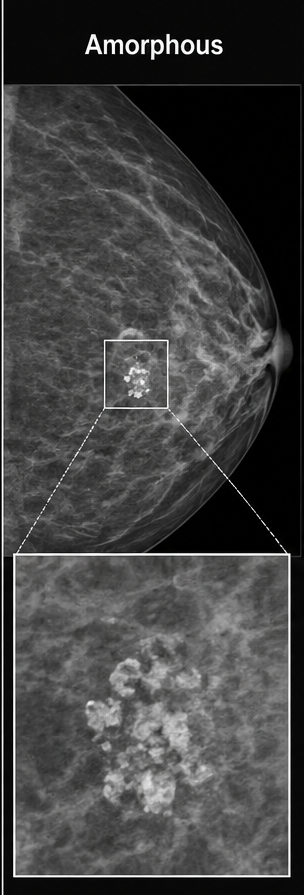
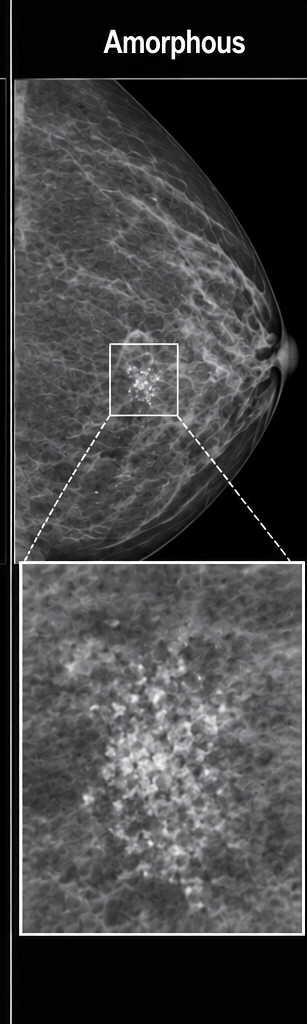
Add calcification distribution images and update case

diff --git a/app/mamma/bildgebung/mammographie/verkalkungen/page.js b/app/mamma/bildgebung/mammographie/verkalkungen/page.js
@@ -15,14 +15,22 @@ const ID='mammographie-mikrokalk',PATH='/mamma/bildgebung/mammographie/verkalkun
 const READ={de:['Als gelesen markieren','Als gelesen markiert','Bitte melde dich an, um deinen Lernfortschritt zu speichern.','Anmelden'],en:['Mark as read','Marked as read','Please sign in to save your learning progress.','Sign in'],fa:['علامتگذاری بهعنوان خواندهشده','بهعنوان خواندهشده علامتگذاری شد','برای ذخیره پیشرفت لطفاً وارد شوید.','ورود']}
 const MORPHOLOGY_IMAGES={
   round:{src:'/mamma/mammographie/verkalkungen/morphology/round.png',width:309,height:895,alt:L('Runde, scharf begrenzte Verkalkungen mit Vergrößerung','Round, well-defined calcifications with magnified view','کلسیفیکاسیونهای گرد و با حدود مشخص همراه با نمای بزرگنماییشده')},
-  amorph:{src:'/mamma/mammographie/verkalkungen/morphology/amorphous.png',width:304,height:895,alt:L('Amorphe, unscharf begrenzte Verkalkungen mit Vergrößerung','Amorphous, indistinct calcifications with magnified view','کلسیفیکاسیونهای آمورف و نامشخص همراه با نمای بزرگنماییشده')},
+  amorph:{src:'/mamma/mammographie/verkalkungen/morphology/amorphous.png',width:307,height:1024,alt:L('Amorphe, unscharf begrenzte Verkalkungen mit Vergrößerung','Amorphous, indistinct calcifications with magnified view','کلسیفیکاسیونهای آمورف و نامشخص همراه با نمای بزرگنماییشده')},
   coarse:{src:'/mamma/mammographie/verkalkungen/morphology/coarse-heterogeneous.png',width:305,height:895,alt:L('Grob heterogene Verkalkungen mit Vergrößerung','Coarse heterogeneous calcifications with magnified view','کلسیفیکاسیونهای درشت ناهمگون همراه با نمای بزرگنماییشده')},
   pleomorphic:{src:'/mamma/mammographie/verkalkungen/morphology/fine-pleomorphic.png',width:304,height:895,alt:L('Fein pleomorphe Verkalkungen mit Vergrößerung','Fine pleomorphic calcifications with magnified view','کلسیفیکاسیونهای ظریف پلئومورفیک همراه با نمای بزرگنماییشده')},
   linear:{src:'/mamma/mammographie/verkalkungen/morphology/fine-linear-branching.png',width:307,height:895,alt:L('Fein lineare und verzweigte Verkalkungen mit Vergrößerung','Fine linear and branching calcifications with magnified view','کلسیفیکاسیونهای ظریف خطی و شاخهدار همراه با نمای بزرگنماییشده')},
 }
+const DISTRIBUTION_IMAGES={
+  diffuse:{src:'/mamma/mammographie/verkalkungen/distribution/diffuse.png',width:307,height:1024,alt:L('Diffuse Verteilung von Verkalkungen mit Vergrößerung','Diffuse distribution of calcifications with magnified view','توزیع منتشر کلسیفیکاسیونها همراه با نمای بزرگنماییشده')},
+  regional:{src:'/mamma/mammographie/verkalkungen/distribution/regional.png',width:307,height:1024,alt:L('Regionale Verteilung von Verkalkungen mit Vergrößerung','Regional distribution of calcifications with magnified view','توزیع ناحیهای کلسیفیکاسیونها همراه با نمای بزرگنماییشده')},
+  grouped:{src:'/mamma/mammographie/verkalkungen/distribution/grouped.png',width:308,height:1024,alt:L('Gruppierte Verteilung von Verkalkungen mit Vergrößerung','Grouped distribution of calcifications with magnified view','توزیع گروهی کلسیفیکاسیونها همراه با نمای بزرگنماییشده')},
+  linear:{src:'/mamma/mammographie/verkalkungen/distribution/linear.png',width:307,height:1024,alt:L('Lineare Verteilung von Verkalkungen mit Vergrößerung','Linear distribution of calcifications with magnified view','توزیع خطی کلسیفیکاسیونها همراه با نمای بزرگنماییشده')},
+  segmental:{src:'/mamma/mammographie/verkalkungen/distribution/segmental.png',width:307,height:1024,alt:L('Segmentale Verteilung von Verkalkungen mit Vergrößerung','Segmental distribution of calcifications with magnified view','توزیع سگمنتال کلسیفیکاسیونها همراه با نمای بزرگنماییشده')},
+}
 function Section({id,number,title,children}){const mobile=useMobileLearningLayout();const[open,setOpen]=useState(true);useEffect(()=>setOpen(!mobile),[mobile,id]);return <section id={id} className={`${base.section} ${basics.section} ${styles.section}`}><button type="button" className={`${base.sectionHeader} ${basics.sectionHeader}`} onClick={()=>setOpen(v=>!v)} aria-expanded={open}><span className={basics.sectionHeading}><small>{number}</small><h2>{title}</h2></span><span className={basics.sectionToggle}>{open?'−':'+'}</span></button>{open&&<div className={`${base.sectionBody} ${basics.sectionBody} ${styles.sectionBody}`}>{children}</div>}</section>}
 function ReadButton({lang,isRead,toggle,authError}){const t=READ[lang]||READ.de;return <div className={base.readControl}><button type="button" className={`${base.readButton} ${basics.readButton} ${isRead?`${base.readButtonActive} ${basics.readButtonActive}`:''}`} onClick={toggle}><span className={`${base.readCheck} ${basics.readCheck}`}>{isRead?'✓':''}</span><span>{isRead?t[1]:t[0]}</span></button>{authError&&<div className={base.readError}><span>{t[2]}</span><Link href="/sign-in">{t[3]}</Link></div>}</div>}
 function MorphologyImage({type,lang='de'}){const image=MORPHOLOGY_IMAGES[type];return <a className={caseStyles.morphologyIllustration} href={image.src} target="_blank" rel="noreferrer" aria-label={pick(image.alt,lang)}><Image src={image.src} alt={pick(image.alt,lang)} width={image.width} height={image.height}/></a>}
+function DistributionImage({type,lang='de'}){const image=DISTRIBUTION_IMAGES[type];return <a className={caseStyles.distributionIllustration} href={image.src} target="_blank" rel="noreferrer" aria-label={pick(image.alt,lang)}><Image src={image.src} alt={pick(image.alt,lang)} width={image.width} height={image.height}/></a>}
 function RiskLab({lang}){const tx=v=>pick(v,lang);const[morph,setMorph]=useState('amorph');const[dist,setDist]=useState('grouped');const mi=MORPH.findIndex(x=>x.key===morph),di=DISTRIBUTION.findIndex(x=>x.key===dist);const score=mi+(di>=3?2:di===2?1:0);const result=score>=5?L('hoch suspekt','highly suspicious','بسیار مشکوک'):score>=3?L('suspekt','suspicious','مشکوک'):L('eher niedrige Suspektheit','lower suspicion','شک کمتر');return <div className={styles.riskLab}><header><small>{tx(L('Interaktiv kombinieren','Combine interactively','ترکیب تعاملی'))}</small><strong>{tx(result)}</strong></header><div><label>{tx(L('Morphologie','Morphology','مورفولوژی'))}<select value={morph} onChange={e=>setMorph(e.target.value)}>{MORPH.map(x=><option key={x.key} value={x.key}>{tx(x.title)}</option>)}</select></label><span>×</span><label>{tx(L('Verteilung','Distribution','توزیع'))}<select value={dist} onChange={e=>setDist(e.target.value)}>{DISTRIBUTION.map(x=><option key={x.key} value={x.key}>{tx(x.title)}</option>)}</select></label></div><p>{tx(L('Die Kombination strukturiert die Risikoeinschätzung; BI-RADS und Management bleiben eine ärztliche Gesamtentscheidung.','The combination structures risk assessment; BI-RADS and management remain an integrated clinical decision.','این ترکیب ارزیابی خطر را ساختار میدهد؛ BI-RADS و اقدام همچنان تصمیم جامع پزشکی هستند.'))}</p></div>}
 function Lines({children}){return <span style={{whiteSpace:'pre-line'}}>{children}</span>}
 function GermanContent(){return <>
@@ -68,12 +76,12 @@ function GermanContent(){return <>
   <Section {...GERMAN_SECTIONS[3]} title={GERMAN_SECTIONS[3].label.de}>
     <p className={styles.lead}>Neben der Morphologie muss immer beschrieben werden, wie sich die Verkalkungen innerhalb der Brust verteilen.</p>
     <div className={styles.riskArrow}>zunehmende duktale Orientierung →</div>
-    <div className={`${styles.distribution} ${caseStyles.distributionScale}`}>
-      <article><span>01</span><strong>Diffus</strong><p>Weit über die Brust verteilt, häufig bilateral.<br/><br/>Bei entsprechender Morphologie meistens benign.</p></article>
-      <article><span>02</span><strong>Regional</strong><p>Verkalkungen innerhalb eines größeren Areals ohne eindeutige Orientierung an einem Gangsystem.<br/><br/>Die Bedeutung hängt stark von der Morphologie ab.</p></article>
-      <article><span>03</span><strong>Gruppiert</strong><p>Mehrere Verkalkungen konzentrieren sich innerhalb eines begrenzten Areals.<br/><br/>Eine gruppierte Verteilung allein bedeutet nicht Malignität:<br/><br/>Morphologie entscheidet über das tatsächliche Risiko.</p></article>
-      <article><span>04</span><strong>Linear</strong><p>Verkalkungen liegen entlang einer Linie.<br/><br/>Dies kann eine Ablagerung innerhalb eines Milchganges widerspiegeln und erhöht insbesondere bei suspekter Morphologie den Verdacht.</p></article>
-      <article><span>05</span><strong>Segmental</strong><p>Die Verkalkungen folgen einem Gangsystem und seinen Verzweigungen.<br/><br/>Typisch ist ein keil- oder dreieckförmiges Verteilungsmuster mit Orientierung zur Mamille.</p></article>
+    <div className={`${styles.morphRail} ${caseStyles.morphologyScale}`}>
+      <article><span>01</span><h3>Diffus</h3><p>Weit über die Brust verteilt, häufig bilateral.</p><DistributionImage type="diffuse"/></article>
+      <article><span>02</span><h3>Regional</h3><p>Verkalkungen innerhalb eines größeren Areals ohne eindeutige Orientierung an einem Gangsystem.</p><DistributionImage type="regional"/></article>
+      <article><span>03</span><h3>Gruppiert</h3><p>Mehrere Verkalkungen konzentrieren sich innerhalb eines begrenzten Areals.</p><DistributionImage type="grouped"/></article>
+      <article><span>04</span><h3>Linear</h3><p>Verkalkungen liegen entlang einer Linie.</p><DistributionImage type="linear"/></article>
+      <article><span>05</span><h3>Segmental</h3><p>Die Verkalkungen folgen einem Gangsystem und seinen Verzweigungen.</p><DistributionImage type="segmental"/></article>
     </div>
     <div className={styles.rule}><strong>Merke</strong><p>Lineare und segmentale Verteilungsmuster sind besonders relevant, da sie auf eine duktale Ausbreitung hinweisen können.</p></div>
   </Section>
@@ -219,11 +227,11 @@ Nicht verwechseln mit den deutlich feineren und irregulären fine linear calcifi
     <article className={`${caseStyles.caseStudy} ${caseStyles.exampleCoarse}`}>
       <header className={caseStyles.caseHeader}><div><small>RADIOPAEDIA-FALL</small><h3>Grobschollige Verkalkungen</h3></div></header>
       <div className={caseStyles.caseGallery}>
-        <figure><a href="https://radiopaedia.org/cases/57400/studies/64347?lang=us#t=im&v1i=34751209&v1z=1&v2i=34751200&v2z=1&v3i=34751201&v3z=1&v4i=34751209&v4z=1" target="_blank" rel="noreferrer"><Image src="/mamma/mammographie/verkalkungen/case-57400/l-mlo.png" alt="MLO-Mammographie mit grobscholliger Verkalkung" width={592} height={768}/></a><figcaption>Links MLO</figcaption></figure>
-        <figure><a href="https://radiopaedia.org/cases/57400/studies/64347?lang=us#t=im&v1i=34751209&v1z=1&v2i=34751200&v2z=1&v3i=34751201&v3z=1&v4i=34751209&v4z=1" target="_blank" rel="noreferrer"><Image src="/mamma/mammographie/verkalkungen/case-57400/l-cc.png" alt="CC-Mammographie mit grobscholliger Verkalkung" width={532} height={716}/></a><figcaption>Links CC</figcaption></figure>
+        <figure><a href="https://radiopaedia.org/cases/86372/studies/102403#t=im&v1i=54303996&v1z=1&v2i=54303997&v2z=1&v3i=54303998&v3z=1&v4i=54303999&v4z=1" target="_blank" rel="noreferrer"><Image src="/mamma/mammographie/verkalkungen/case-86372/r-cc.png" alt="CC-Mammographie rechts mit grobscholligen Verkalkungen" width={394} height={814}/></a><figcaption>CC rechts</figcaption></figure>
+        <figure><a href="https://radiopaedia.org/cases/86372/studies/102403#t=im&v1i=54303996&v1z=1&v2i=54303997&v2z=1&v3i=54303998&v3z=1&v4i=54303999&v4z=1" target="_blank" rel="noreferrer"><Image src="/mamma/mammographie/verkalkungen/case-86372/r-mlo.png" alt="MLO-Mammographie rechts mit grobscholligen Verkalkungen" width={413} height={818}/></a><figcaption>MLO rechts</figcaption></figure>
       </div>
-      <p className={caseStyles.caseDescription}><strong>Morphologie und Lage:</strong> Grobe, unregelmäßig-lobulierte Verkalkung mit teils randständiger Aufhellung in einer umschriebenen Läsion der linken Brust.</p>
-      <p className={caseStyles.caseCredit}>Case courtesy of Subash Thapa, <a href="https://radiopaedia.org/cases/57400/studies/64347?lang=us#t=im&v1i=34751209&v1z=1&v2i=34751200&v2z=1&v3i=34751201&v3z=1&v4i=34751209&v4z=1" target="_blank" rel="noreferrer">Radiopaedia.org, rID: 57400 (Vollbild)</a>.</p>
+      <p className={caseStyles.caseDescription}><strong>Morphologie und Lage:</strong> Mehrere große, grobe und glatt begrenzte Verkalkungen in der rechten Brust – typisch benigne grobschollige Morphologie.</p>
+      <p className={caseStyles.caseCredit}>Bildbeispiel: <a href="https://radiopaedia.org/cases/86372/studies/102403#t=im&v1i=54303996&v1z=1&v2i=54303997&v2z=1&v3i=54303998&v3z=1&v4i=54303999&v4z=1" target="_blank" rel="noreferrer">Radiopaedia.org, Fall 86372 (Vollbild)</a>.</p>
     </article>
     <article className={`${caseStyles.caseStudy} ${caseStyles.exampleRod}`}>
       <header className={caseStyles.caseHeader}><div><small>RADIOPAEDIA-FALL</small><h3>Large rod-like Verkalkungen</h3></div></header>
@@ -312,7 +320,7 @@ export default function Page(){const{lang}=useLanguage(),tx=v=>pick(v,lang),less
 <Section {...SECTIONS[1]} title={tx(SECTIONS[1].label)}><div className={styles.techSplit}><article><small>2D / MAG</small><h3>{tx(L('Detailauflösung','Detail resolution','تفکیک جزئیات'))}</h3><p>{tx(L('Gezielte Vergrößerungsaufnahmen verbessern die Beurteilung von Form, Anzahl und Ausdehnung und schaffen eine Vergleichsbasis.','Targeted magnification views improve assessment of shape, number and extent and provide a comparison baseline.','نماهای بزرگنمایی هدفمند ارزیابی شکل، تعداد و وسعت را بهتر کرده و پایه مقایسه میسازند.'))}</p></article><article><small>DBT</small><h3>{tx(L('Räumlicher Kontext','Spatial context','زمینه فضایی'))}</h3><p>{tx(L('DBT-Schichten bestätigen und lokalisieren Kalk; die hochauflösende Detailanalyse erfolgt bei Bedarf in 2D-Vergrößerung.','DBT slices confirm and localise calcifications; high-resolution analysis uses 2D magnification when needed.','برشهای DBT کلسیفیکاسیون را تأیید و مکانیابی میکنند؛ تحلیل با وضوح بالا در صورت نیاز با بزرگنمایی دوبعدی انجام میشود.'))}</p></article></div><div className={styles.caution}>{tx(L('Synthetische Rekonstruktion und Artefakte können Verkalkungen verändern oder imitieren – immer in den Quellbildern bestätigen.','Synthetic reconstruction and artefacts may alter or mimic calcifications; always confirm in source images.','بازسازی مصنوعی و آرتیفکت میتوانند کلسیفیکاسیون را تغییر دهند یا تقلید کنند؛ همیشه در تصاویر منبع تأیید کنید.'))}</div></Section>
 <Section {...SECTIONS[2]} title={tx(SECTIONS[2].label)}><div className={styles.benignList}>{BENIGN.map(([code,title,text])=><article key={code}><span>{code}</span><div><h3>{tx(title)}</h3><p>{tx(text)}</p></div></article>)}</div></Section>
 <Section {...SECTIONS[3]} title={tx(SECTIONS[3].label)}><div className={styles.riskArrow}>{tx(L('steigende Suspektheit','increasing suspicion','افزایش میزان شک'))} →</div><div className={`${styles.morphRail} ${caseStyles.morphologyScale}`}>{MORPH.map((x,i)=><article key={x.key}><span>{String(i+1).padStart(2,'0')}</span><h3>{tx(x.title)}</h3><small>{tx(x.risk)}</small><p>{tx(x.text)}</p><MorphologyImage type={x.key} lang={lang}/></article>)}</div></Section>
-<Section {...SECTIONS[4]} title={tx(SECTIONS[4].label)}><div className={styles.distribution}>{DISTRIBUTION.map((x,i)=><article key={x.key}><span>{String(i+1).padStart(2,'0')}</span><strong>{tx(x.title)}</strong><p>{tx(x.text)}</p></article>)}</div><div className={styles.rule}><strong>{tx(L('Duktales Muster','Ductal pattern','الگوی داکتال'))}</strong><p>{tx(L('Linear und segmental sind besonders relevant, weil sie einem Gangsystem folgen können.','Linear and segmental patterns matter because they may follow a ductal system.','الگوهای خطی و سگمنتال مهماند، زیرا ممکن است مسیر سیستم مجرایی را دنبال کنند.'))}</p></div></Section>
+<Section {...SECTIONS[4]} title={tx(SECTIONS[4].label)}><div className={`${styles.morphRail} ${caseStyles.morphologyScale}`}>{DISTRIBUTION.map((x,i)=><article key={x.key}><span>{String(i+1).padStart(2,'0')}</span><h3>{tx(x.title)}</h3><p>{tx(x.text)}</p><DistributionImage type={x.key} lang={lang}/></article>)}</div><div className={styles.rule}><strong>{tx(L('Duktales Muster','Ductal pattern','الگوی داکتال'))}</strong><p>{tx(L('Linear und segmental sind besonders relevant, weil sie einem Gangsystem folgen können.','Linear and segmental patterns matter because they may follow a ductal system.','الگوهای خطی و سگمنتال مهماند، زیرا ممکن است مسیر سیستم مجرایی را دنبال کنند.'))}</p></div></Section>
 <Section {...SECTIONS[5]} title={tx(SECTIONS[5].label)}><div className={styles.comboRows}>{COMBINATIONS.map(([a,b,c,tone],i)=><article className={styles[tone]} key={i}><strong>{tx(a)}</strong><span>+</span><strong>{tx(b)}</strong><span>→</span><b>{tx(c)}</b></article>)}</div><RiskLab lang={lang}/></Section>
 <Section {...SECTIONS[6]} title={tx(SECTIONS[6].label)}><div className={styles.context}>{CONTEXT.map((x,i)=><article key={i}><span>0{i+1}</span><h3>{tx(x.title)}</h3><p>{tx(x.text)}</p></article>)}</div><div className={styles.caution}>{tx(L('Eine assoziierte Mass oder Architekturstörung kann auf eine invasive Komponente hinweisen.','An associated mass or architectural distortion may indicate an invasive component.','توده یا دیستورشن معماری همراه میتواند نشاندهنده جزء مهاجم باشد.'))}</div></Section>
 <Section {...SECTIONS[7]} title={tx(SECTIONS[7].label)}><div className={styles.modalityRows}><article><strong>DCIS</strong><p>{tx(L('Suspekter Mikrokalk spricht häufig für einen duktalen Prozess, beweist aber weder reines DCIS noch eine bestimmte Histologie.','Suspicious calcifications often indicate a ductal process but prove neither pure DCIS nor a specific histology.','کلسیفیکاسیون مشکوک اغلب نشاندهنده فرایند داکتال است، اما DCIS خالص یا بافتشناسی خاصی را اثبات نمیکند.'))}</p></article><article><strong>{tx(L('Ultraschall','Ultrasound','سونوگرافی'))}</strong><p>{tx(L('Ein Korrelat innerhalb einer Mass, Non-Mass-Läsion oder eines Ganges kann den Biopsiezugang erleichtern; fehlendes Korrelat entwarnt nicht.','A correlate within a mass, non-mass lesion or duct may facilitate biopsy; its absence is not reassuring.','همبستگی در توده، ضایعه غیرتودهای یا مجرا میتواند بیوپسی را آسان کند؛ نبود آن اطمینانبخش نیست.'))}</p></article><article><strong>MRT / CEM</strong><p>{tx(L('Kann Ausdehnung oder invasive Komponenten ergänzend zeigen, ersetzt aber bei suspektem Kalk weder Mammographie noch indizierte Histologie.','May add information on extent or invasion but does not replace mammography or indicated tissue diagnosis.','میتواند اطلاعاتی درباره وسعت یا تهاجم بیفزاید، اما جایگزین ماموگرافی یا تشخیص بافتی لازم نیست.'))}</p></article></div></Section>

diff --git a/app/mamma/bildgebung/mammographie/verkalkungen/case.module.css b/app/mamma/bildgebung/mammographie/verkalkungen/case.module.css
@@ -396,11 +396,11 @@
   margin: 18px 0 12px;
 }
 
-.morphologyIllustration {
+.morphologyIllustration,
+.distributionIllustration {
   display: grid;
   overflow: hidden;
   width: 100%;
-  aspect-ratio: 304 / 895;
   flex: 0 0 auto;
   margin-top: 16px;
   place-items: center;
@@ -409,7 +409,16 @@
   background: #03060a;
 }
 
-.morphologyIllustration img {
+.morphologyIllustration {
+  aspect-ratio: 304 / 895;
+}
+
+.distributionIllustration {
+  aspect-ratio: 307 / 1024;
+}
+
+.morphologyIllustration img,
+.distributionIllustration img {
   display: block;
   width: 100%;
   height: 100%;
